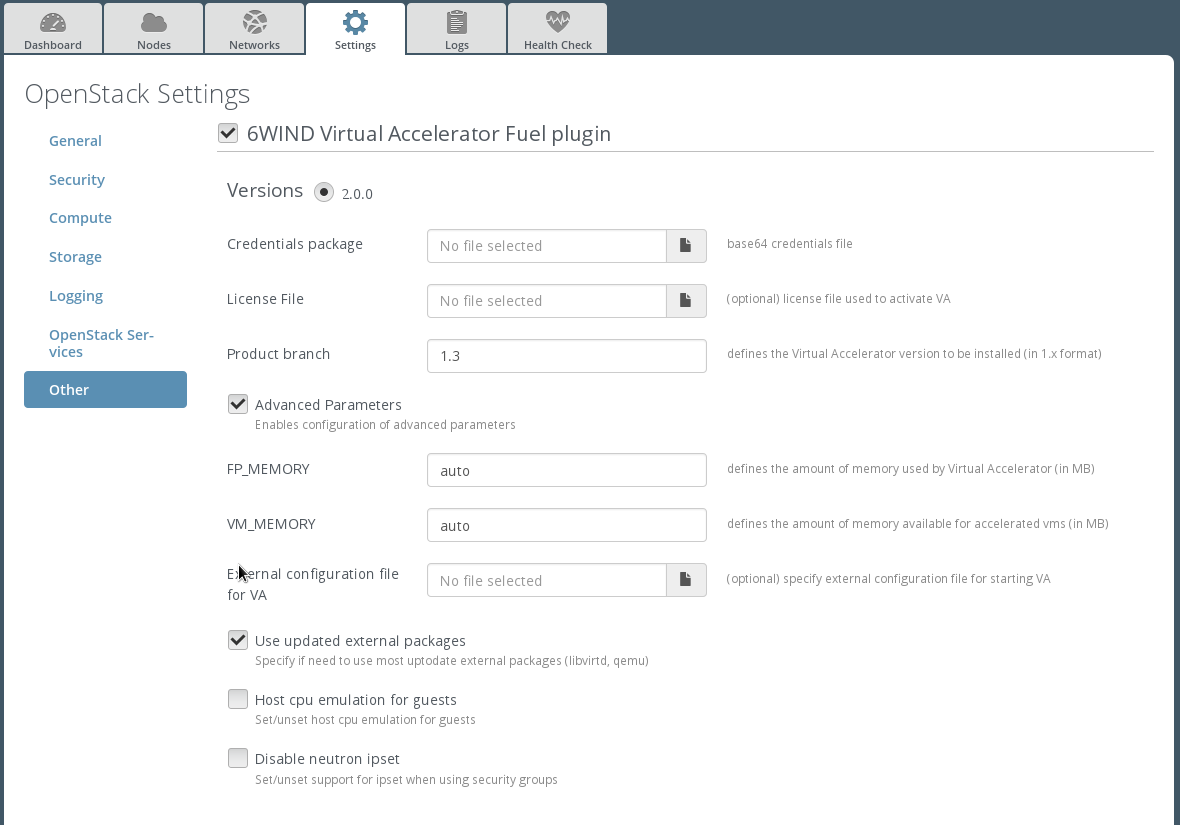
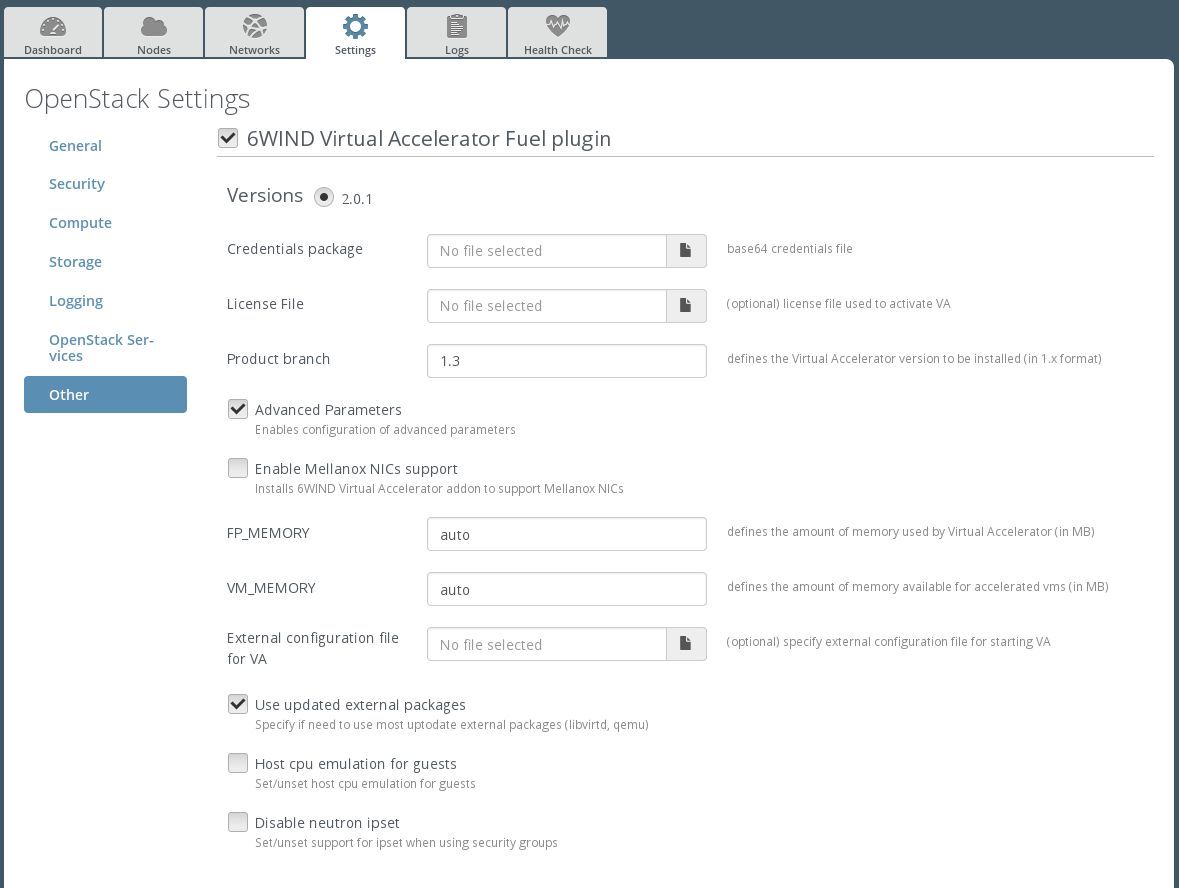
6wind-virtual-accelerator-plugin: support for Mellanox NICs
This commit enables support for 6WIND Virtual Accelerator addon for
Mellanox NICs support.

diff --git a/doc/source/user-guide.rst b/doc/source/user-guide.rst
@@ -15,6 +15,16 @@ credentials for Virtual Accelerator software download.
 The plugin will then install and run the Virtual Accelerator using its default
 configuration values.
 
+Enable 6WIND Virtual Accelerator addon for Mellanox
+---------------------------------------------------
+
+If your compute nodes use Mellanox NICs you should install the additional 6WIND
+Virtual Accelerator module. This task is possible using the
+**Enable Mellanox NICs support** checkbox in the Web UI.
+
+Thanks to this addon, the Virtual Accelerator will be able to automatically
+detect and configure these NICs to support the 6WIND network stack.
+
 Configuring 6WIND Virtual Accelerator parameters
 ------------------------------------------------
 

diff --git a/doc/source/installation.rst b/doc/source/installation.rst
@@ -114,7 +114,8 @@ Configuring 6WIND Virtual Accelerator Plugin
         version, otherwise specify an explicit value (eg. 1.3).
         Remember to use **at least version 1.3** for Fuel 8.
 
-    *   Refer to next chapter for the description of Advanced Paramaters fields.
+    *   Refer to next chapter for the description of Advanced Paramaters fields
+        and how to enable support for Mellanox NICs.
 
 
 #.  Add nodes and assign them the following roles:
